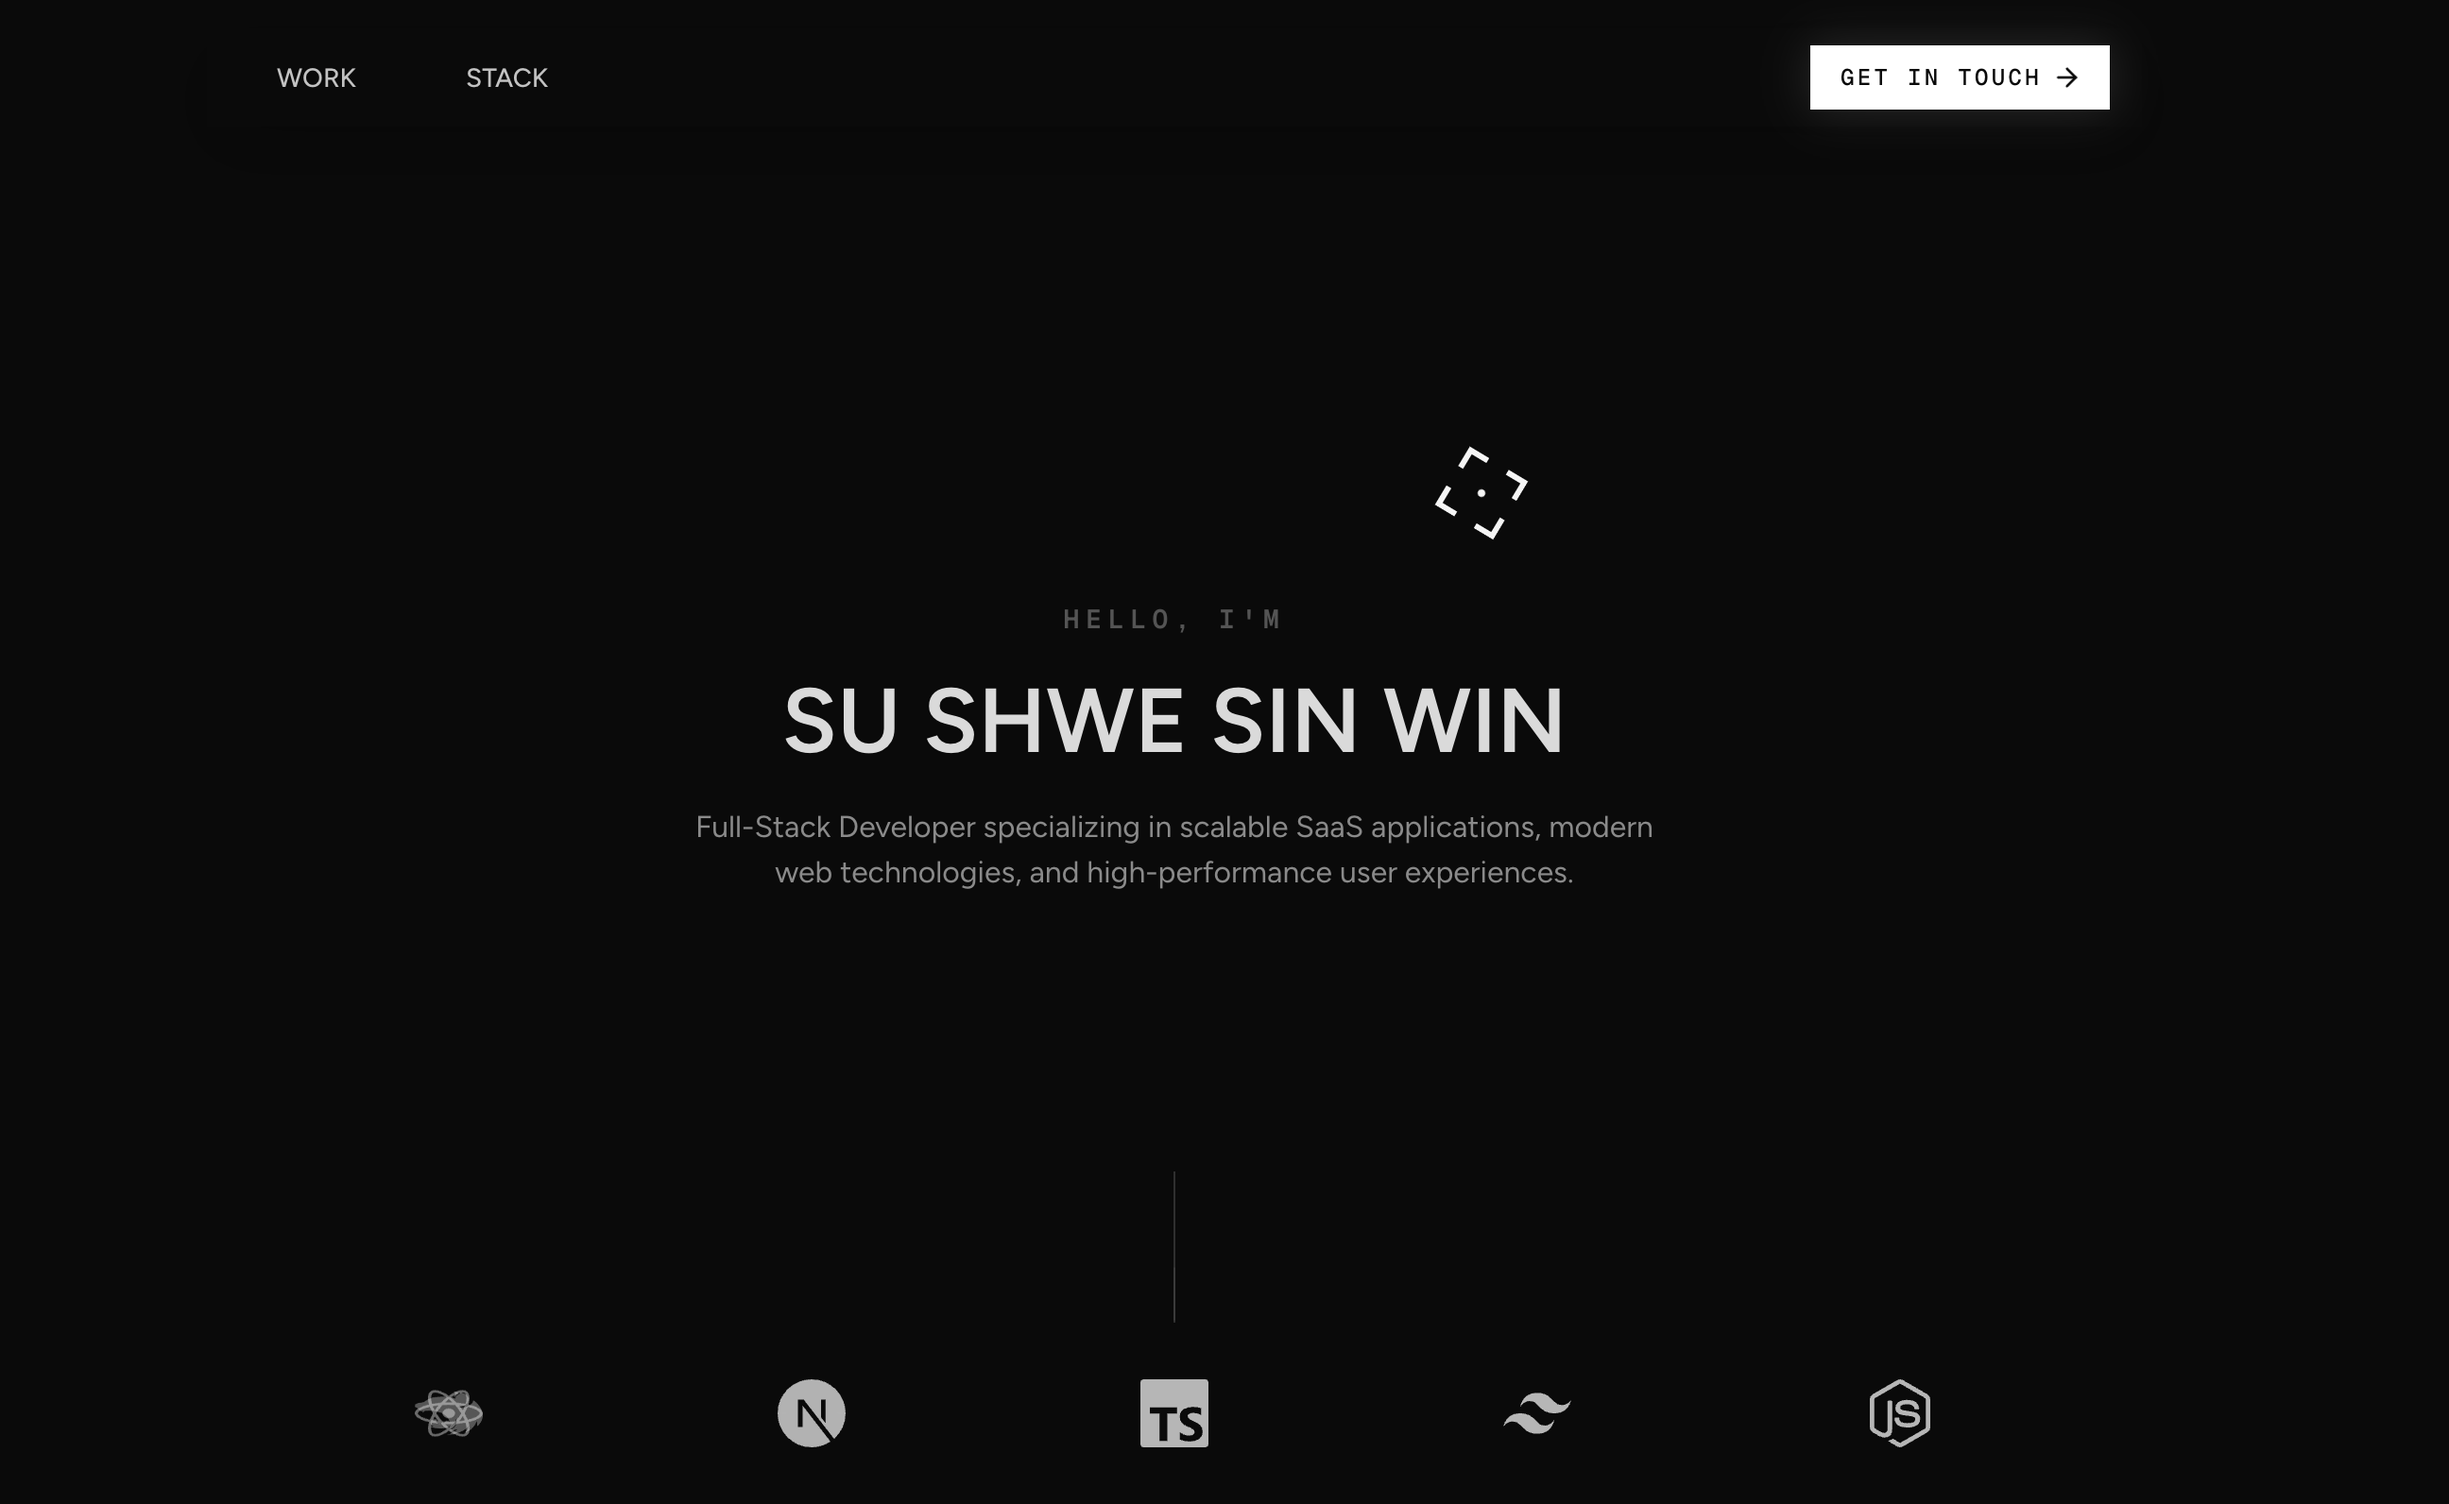
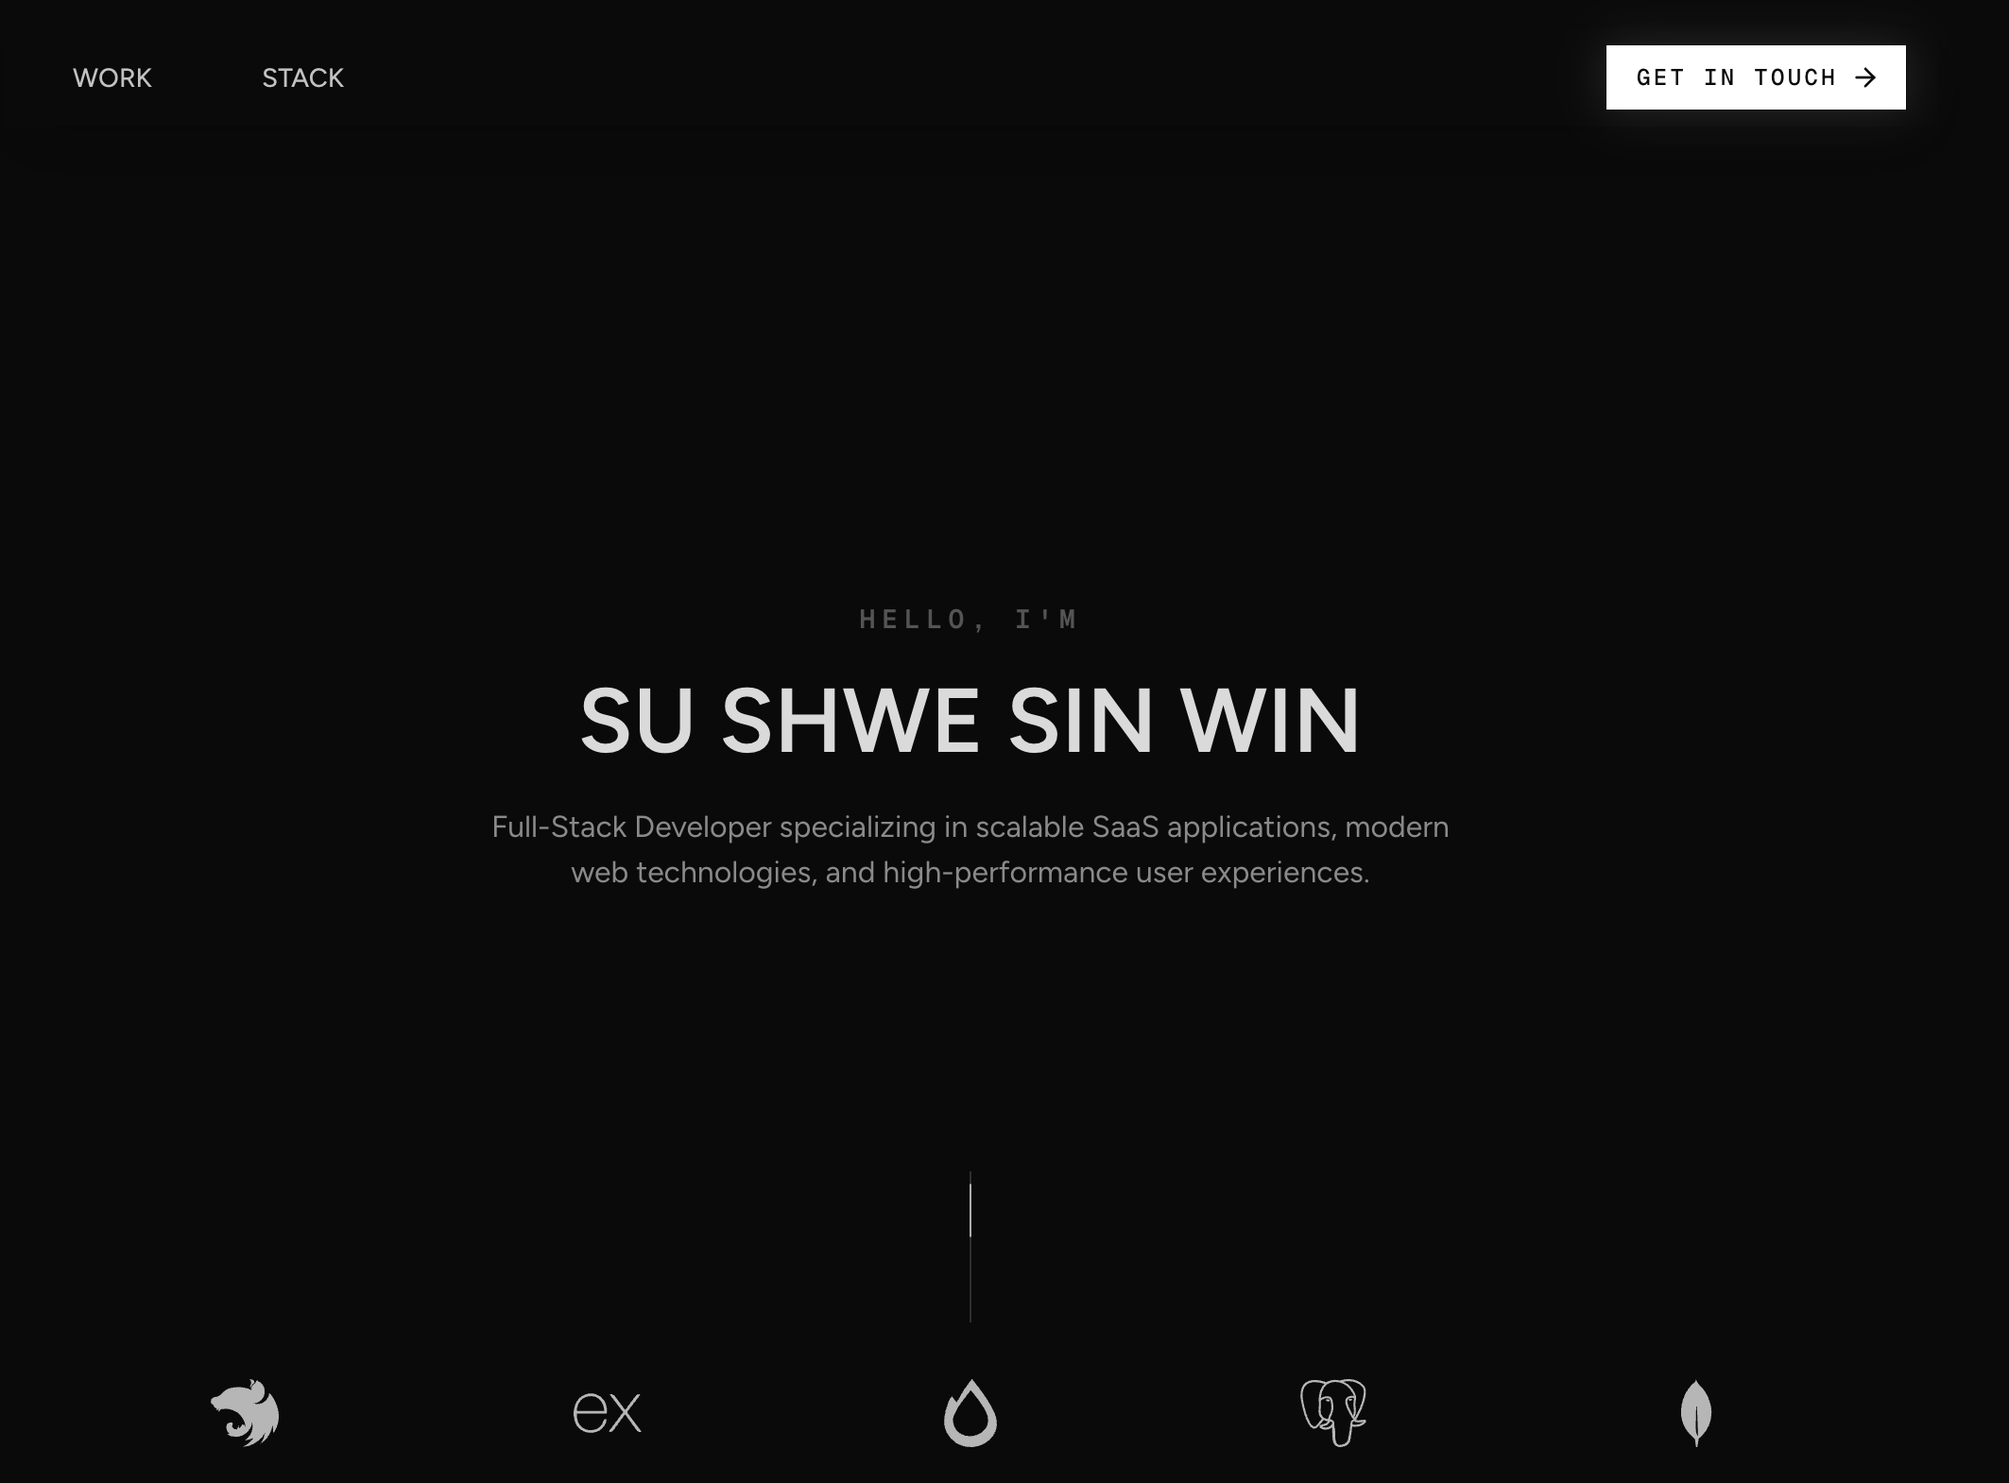
add new section and update footer and drawer

diff --git a/app/page.tsx b/app/page.tsx
@@ -40,8 +40,11 @@ export default function Home() {
           <TargetCursor targetSelector={cursorSelector} cursorColor="#ffffff" />
           <div className={`${pageContainer} relative flex min-h-screen flex-col pb-5 pt-24 sm:pt-24`}>
             <PortfolioNav />
+            <p aria-hidden="true" className="pointer-events-none absolute left-1/2 top-1/2 z-0 -translate-x-1/2 -translate-y-1/2 select-none whitespace-nowrap text-[clamp(4rem,18vw,13rem)] font-black leading-none tracking-normal text-white/[0.035]">
+              DEVELOPER
+            </p>
 
-            <div className="absolute inset-0 flex items-center justify-center px-5 text-center">
+            <div className="absolute inset-0 z-10 flex items-center justify-center px-5 text-center">
               <div>
                 <p className="hero-enter hero-enter-1 mb-5 font-mono text-xs font-semibold uppercase tracking-[0.24em] text-white/30 sm:text-sm">
                   Hello, I&apos;m
@@ -127,7 +130,7 @@ export default function Home() {
         </div>
         <div className={`${pageContainer} relative`}>
           <h2 className="text-center text-[clamp(1.6rem,8vw,3rem)] font-semibold leading-none tracking-normal text-white/85">
-            Education <br /> &amp; Professional Qualifications
+            Education, Certifications &amp; Training
           </h2>
 
           <div className="mt-8 grid items-stretch gap-4 sm:mt-10 md:grid-cols-3">
@@ -212,7 +215,11 @@ export default function Home() {
         className="relative overflow-hidden bg-[#0A0A0A] px-4 pb-10 text-white sm:px-8 sm:pb-12 lg:px-10"
       >
         <div className="relative z-10 h-px w-full bg-white/10" />
-        <div className="relative z-10 mx-auto mt-8 grid w-full max-w-5xl gap-8 text-center sm:mt-10 sm:gap-10 md:grid-cols-[1fr_2fr] md:text-left">
+        <p className="relative z-10 mx-auto mt-14 max-w-3xl text-center text-[clamp(1.6rem,8vw,3rem)] font-semibold leading-tight tracking-normal text-white/85 sm:mt-20">
+          Enjoy exploring new tech and keeping up with trends.
+        </p>
+        <div className="relative z-10 mt-14 h-px w-full bg-white/10 sm:mt-20" />
+        <div className="relative z-10 mx-auto mt-16 grid w-full max-w-5xl gap-10 text-center sm:mt-20 md:grid-cols-[1fr_2fr] md:text-left">
           <div className="flex flex-col items-center md:items-start">
             <p className="text-2xl font-black tracking-normal text-white">SU SHWE SIN WIN</p>
             <p className="mt-5 flex items-center gap-2 text-sm text-white/50">
@@ -224,26 +231,28 @@ export default function Home() {
             </p>
           </div>
 
-          <div className="grid grid-cols-1 gap-8 sm:grid-cols-3 sm:gap-10">
-            {footerColumns.map(({ title, links }) => (
-              <div key={title}>
-                <p className="font-mono text-[10px] uppercase tracking-[0.18em] text-white/35">{title}</p>
-                <div className="mt-4 grid gap-3">
-                  {links.map(([label, href]) => (
-                    <a key={label} href={href} className="cursor-pointer text-sm font-semibold text-white/65 transition hover:text-white">
-                      {label}
-                    </a>
-                  ))}
+          <div>
+            <div className="grid grid-cols-1 gap-8 sm:grid-cols-3 sm:gap-10">
+              {footerColumns.map(({ title, links }) => (
+                <div key={title}>
+                  <p className="font-mono text-[10px] uppercase tracking-[0.18em] text-white/35">{title}</p>
+                  <div className="mt-4 grid gap-3">
+                    {links.map(([label, href]) => (
+                      <a key={label} href={href} className="cursor-pointer text-sm font-semibold text-white/65 transition hover:text-white">
+                        {label}
+                      </a>
+                    ))}
+                  </div>
                 </div>
-              </div>
-            ))}
+              ))}
+            </div>
           </div>
         </div>
 
-        <div className="relative z-10 mx-auto mt-10 flex w-full max-w-5xl flex-col items-center justify-center gap-4 text-center text-xs font-semibold text-white/45 sm:mt-14 sm:flex-row sm:justify-between sm:gap-6 sm:text-left">
+        <div className="relative z-10 mx-auto mb-24 mt-10 flex w-full max-w-5xl flex-col items-center justify-center gap-4 text-center text-xs font-semibold text-white/45 sm:mb-32 sm:mt-14 sm:flex-row sm:justify-between sm:gap-6 sm:text-left lg:mb-40">
           <p className="max-w-[18rem] leading-5 sm:max-w-none">
             Built by SU SHWE SIN WIN. The source code is available on{" "}
-            <a className="cursor-pointer transition hover:text-white" href="https://github.com/sushwesinwin/sssw-portfolio" target="_blank" rel="noreferrer">
+            <a className="cursor-pointer text-sky-400 transition hover:text-sky-300" href="https://github.com/sushwesinwin/sssw-portfolio" target="_blank" rel="noreferrer">
               GitHub
             </a>.
           </p>
@@ -260,8 +269,8 @@ export default function Home() {
           </div>
         </div>
 
-        <p aria-hidden="true" className="absolute bottom-[-0.18em] left-1/2 -translate-x-1/2 select-none whitespace-nowrap text-[clamp(3.2rem,13vw,14rem)] font-black leading-none tracking-normal text-white/[0.035]">
-          DEVELOPER
+        <p aria-hidden="true" className="absolute bottom-[-0.18em] left-1/2 -translate-x-1/2 select-none whitespace-nowrap text-[clamp(3.2rem,13vw,14rem)] font-black leading-none tracking-normal text-white/[0.06]">
+          PORTFOLIO
         </p>
       </SpotlightCard>
     </main>
